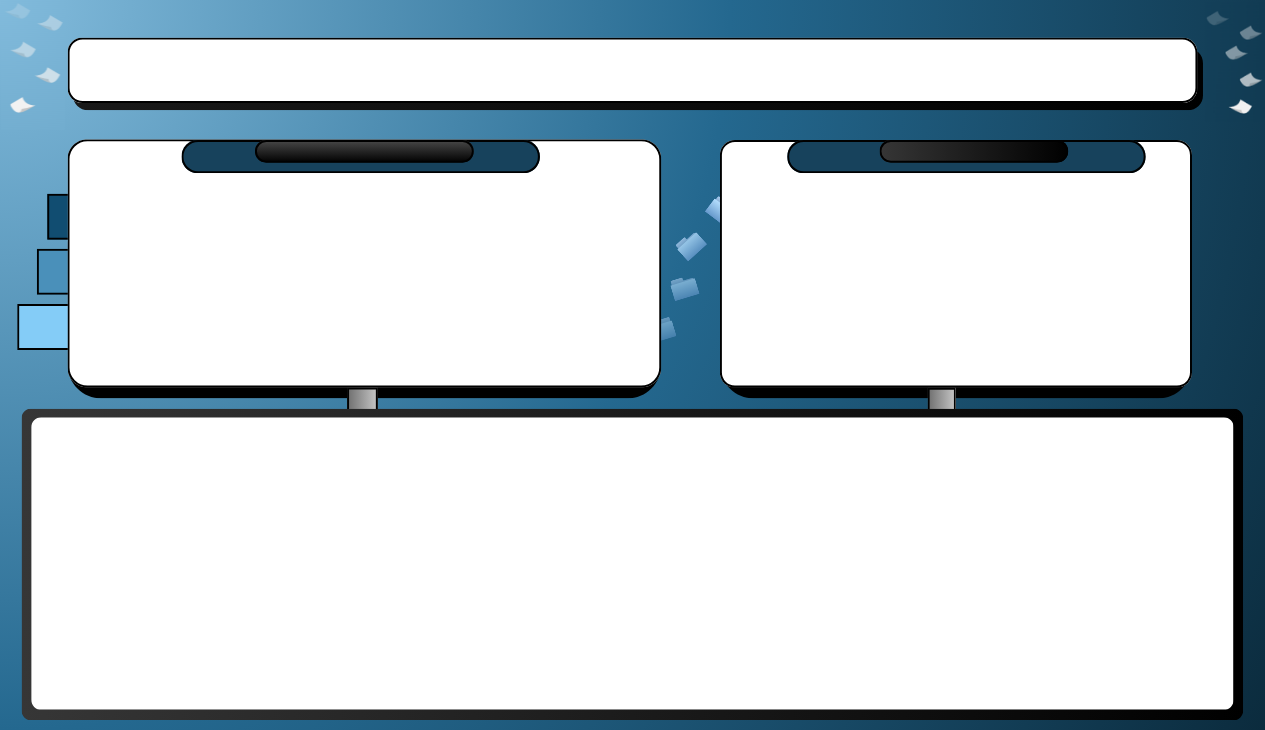
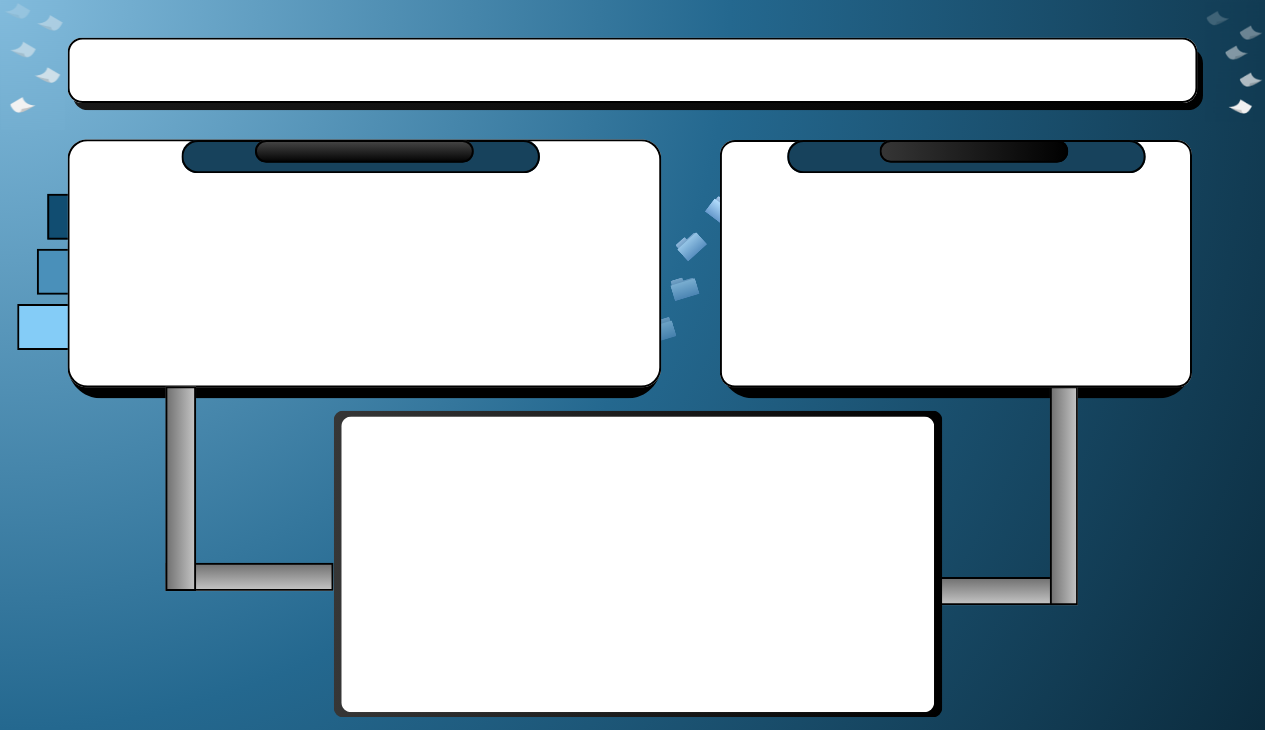
Arreglado background de userscreen

Changed region(s): [[0.0, 0.5123, 0.9866, 0.9945]]

diff --git a/gestiodeprojectes_EricPeraltaSandoval/userscreen.Designer.cs b/gestiodeprojectes_EricPeraltaSandoval/userscreen.Designer.cs
@@ -168,9 +168,9 @@
             // dataGridUsers
             // 
             this.dataGridUsers.ColumnHeadersHeightSizeMode = System.Windows.Forms.DataGridViewColumnHeadersHeightSizeMode.AutoSize;
-            this.dataGridUsers.Location = new System.Drawing.Point(38, 424);
+            this.dataGridUsers.Location = new System.Drawing.Point(345, 421);
             this.dataGridUsers.Name = "dataGridUsers";
-            this.dataGridUsers.Size = new System.Drawing.Size(1187, 276);
+            this.dataGridUsers.Size = new System.Drawing.Size(583, 288);
             this.dataGridUsers.TabIndex = 16;
             // 
             // menuStrip1
